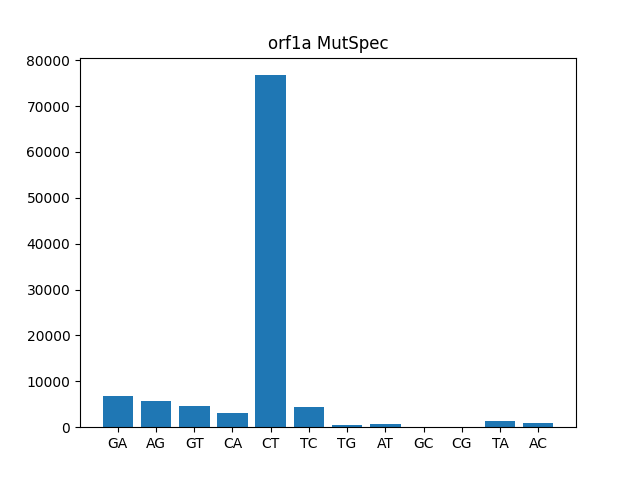
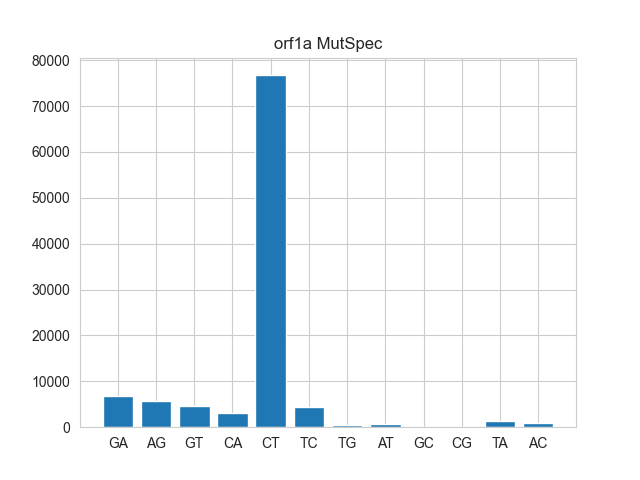
Refactoring

diff --git a/Sars_Cov_2/cod/sars_cov_2_mut.py b/Sars_Cov_2/cod/sars_cov_2_mut.py
@@ -2,95 +2,135 @@ import pandas as pd
 import matplotlib.pyplot as plt
 from Bio import SeqIO
 import numpy as np
+from pathlib import Path
+import seaborn as sns
+from tqdm import tqdm
 
-data = pd.read_excel('/home/bufnita/PycharmProjects/Sars_Cov_2/data/only_mutations.xls')
-ref = ('/home/bufnita/PycharmProjects/Sars_Cov_2/data/Covid_ref.fasta')
+sns.set_style('whitegrid')
+
+rootPath = Path('..')
+dataPath = rootPath / 'data'
+figuresPath = rootPath / 'figure'
+resultPath = rootPath /'data_obtained'
+
+data = pd.read_excel(dataPath / 'only_mutations.xls')
+ref = (dataPath / 'Covid_ref.fasta')
 
 def twelve_comp_mutspec(data):
     mutspec = {}
-    for index, row in data.iterrows():
-        if row['ref'] + row['snp'] in mutspec.keys():
-            mutspec[row['ref'] + row['snp']] += row['snp_count']
+    for index, row in tqdm(data.iterrows()):
+        subst = row['ref'] + row['snp']
+        if subst in mutspec.keys():
+            mutspec[subst] += row['snp_count']
         else:
-            mutspec[row['ref'] + row['snp']] = row['snp_count']
-    surface_mut_spec = pd.DataFrame([mutspec])
-    surface_mut_spec.to_csv('/home/bufnita/PycharmProjects/Sars_Cov_2/data_obtained/surface_mut_spec.csv')
-
-    fig = plt.figure()
-    plt.title('Surface MutSpec')
-    plt.bar(mutspec.keys(), mutspec.values())
-    fig.savefig('/home/bufnita/PycharmProjects/Sars_Cov_2/figure/surface_mut_spec.png')
+            mutspec[subst] = row['snp_count']
+    return mutspec
 
 def twelve_comp_mutspec_NS_S(data):
-    mutspec_S = {}
-    mutspec_NS = {}
-    for index, row in data.iterrows():
-        if row['NS_S'] == 'S':
-            if row['ref'] + row['snp'] in mutspec_S.keys():
-                mutspec_S[row['ref'] + row['snp']] += row['snp_count']
-            else:
-                mutspec_S[row['ref'] + row['snp']] = row['snp_count']
-        if row['NS_S'] == 'NS':
-            if row['ref'] + row['snp'] in mutspec_NS.keys():
-                mutspec_NS[row['ref'] + row['snp']] += row['snp_count']
-            else:
-                mutspec_NS[row['ref'] + row['snp']] = row['snp_count']
+    mutspec_S= twelve_comp_mutspec(data[data.NS_S ==  'S'])
+    mutspec_NS = twelve_comp_mutspec(data[data.NS_S ==  'NS'])
     NS_mut_spec = pd.DataFrame([mutspec_NS])
     S_mut_spec = pd.DataFrame([mutspec_S])
-    NS_mut_spec.to_csv('/home/bufnita/PycharmProjects/Sars_Cov_2/data_obtained/NS_mut_spec.csv')
-    S_mut_spec.to_csv('/home/bufnita/PycharmProjects/Sars_Cov_2/data_obtained/S_mut_spec.csv')
+    NS_mut_spec.to_csv(resultPath / 'NS_mut_spec.csv')
+    S_mut_spec.to_csv(resultPath / 'S_mut_spec.csv')
 
     fig_S = plt.figure()
     plt.title('Synonymous MutSpec')
     plt.bar(mutspec_S.keys(), mutspec_S.values())
-    fig_S.savefig('/home/bufnita/PycharmProjects/Sars_Cov_2/figure/S_mut_spec.png')
+    fig_S.savefig(figuresPath / 'S_mut_spec.png')
 
     fig_NS = plt.figure()
     plt.title('NonSynonymous MutSpec')
     plt.bar(mutspec_NS.keys(), mutspec_NS.values())
-    fig_NS.savefig('/home/bufnita/PycharmProjects/Sars_Cov_2/figure/NS_mut_spec.png')
+    fig_NS.savefig(figuresPath / 'NS_mut_spec.png')
+
+
+def _twelve_comp_mutspec_NS_S(data):
+    mutspec_S = {}
+    mutspec_NS = {}
+    for index, row in data.iterrows():
+        snp = row['ref'] + row['snp']
+        if row['NS_S'] == 'S':
+            if snp in mutspec_S.keys():
+                mutspec_S[snp] += row['snp_count']
+            else:
+                mutspec_S[snp] = row['snp_count']
+        if row['NS_S'] == 'NS':
+            if snp in mutspec_NS.keys():
+                mutspec_NS[snp] += row['snp_count']
+            else:
+                mutspec_NS[snp] = row['snp_count']
+    NS_mut_spec = pd.DataFrame([mutspec_NS])
+    S_mut_spec = pd.DataFrame([mutspec_S])
+    NS_mut_spec.to_csv(resultPath / 'NS_mut_spec.csv')
+    S_mut_spec.to_csv(resultPath / 'S_mut_spec.csv')
+
+    fig_S = plt.figure()
+    plt.title('Synonymous MutSpec')
+    plt.bar(mutspec_S.keys(), mutspec_S.values())
+    fig_S.savefig(figuresPath/ 'S_mut_spec.png')
+
+    fig_NS = plt.figure()
+    plt.title('NonSynonymous MutSpec')
+    plt.bar(mutspec_NS.keys(), mutspec_NS.values())
+    fig_NS.savefig(figuresPath/ 'NS_mut_spec.png')
 
 def mutspec_per_gen(data, gen):
     mutspec = {}
     new_data = data.loc[data['ORF'] == gen]
-    for index, row in new_data.iterrows():
-        if row['ref'] + row['snp'] in mutspec.keys():
-            mutspec[row['ref'] + row['snp']] += row['snp_count']
-        else:
-            mutspec[row['ref'] + row['snp']] = row['snp_count']
+    mutspec = twelve_comp_mutspec(new_data)
+    # for index, row in new_data.iterrows():
+    #     snp = row['ref'] + row['snp']
+    #     if snp in mutspec.keys():
+    #         mutspec[snp] += row['snp_count']
+    #     else:
+    #         mutspec[snp] = row['snp_count']
     gen_mut_spec = pd.DataFrame([mutspec])
-    gen_mut_spec.to_csv('/home/bufnita/PycharmProjects/Sars_Cov_2/data_obtained/gen_{}_mut_spec.csv'.format(gen))
+    gen_mut_spec.to_csv(resultPath / 'gen_{}_mut_spec.csv'.format(gen))
 
     fig = plt.figure()
     plt.title('{} MutSpec'.format(gen))
     plt.bar(mutspec.keys(), mutspec.values())
-    fig.savefig('/home/bufnita/PycharmProjects/Sars_Cov_2/figure/gen_{}_mut_spec.png'.format(gen))
+    fig.savefig(figuresPath / 'gen_{}_mut_spec.png'.format(gen))
 
 def mutspec_192(data, ref):
     mutspec = {}
     second_nucl_data = data.loc[data['pos_in_codon'] == 2]
     for index, row in second_nucl_data.iterrows():
-        if ref[int(row['bp'])-2 : int(row['bp'])+1] + ':' + ref[int(row['bp'])-2] + row['snp'] + ref[int(row['bp'])] in mutspec.keys():
-            mutspec[ref[int(row['bp'])-2 : int(row['bp'])+1] + ':' + ref[int(row['bp'])-2] + row['snp'] + ref[int(row['bp'])]] += row['snp_count']
+        codon = ref[int(row['bp'])-2 : int(row['bp'])+1]
+        snp_codon = ref[int(row['bp'])-2] + row['snp'] + ref[int(row['bp'])]
+        k = codon + ':' + snp_codon
+        if k in mutspec.keys():
+            mutspec[k] += row['snp_count']
         else:
-            mutspec[ref[int(row['bp'])-2 : int(row['bp'])+1] + ':' + ref[int(row['bp'])-2] + row['snp'] + ref[int(row['bp'])]] = row['snp_count']
+            mutspec[k] = row['snp_count']
     gen_mut_spec = pd.DataFrame([mutspec])
-    gen_mut_spec.to_csv('/home/bufnita/PycharmProjects/Sars_Cov_2/data_obtained/mut_spec_192.csv')
+    gen_mut_spec.to_csv(resultPath / 'mut_spec_192.csv')
 
-    fig = plt.figure()
-    ax = fig.add_axes([0, 0, 1, 1])
+    fig, ax = plt.subplots(figsize=(10,30))
     ax.set_title('MutSpec192')
-    ax.bar(mutspec.keys(), mutspec.values(), width = 0.4)
-    fig.set_figwidth(12)
-    fig.set_figheight(6)
-    fig.savefig('/home/bufnita/PycharmProjects/Sars_Cov_2/figure/mutspec192.png')
+    # plt.bar(mutspec.keys(), mutspec.values(), width = 0.4)
+    df= pd.DataFrame([(k,mutspec[k]) for k  in mutspec])
+    ax.barh(df[0], df[1])
+    plt.yticks((np.arange((len(df)))), df[0])
+    ax.axes.set_ylim(-0.5,len(df)+0.5)
+
+    plt.savefig(figuresPath / 'mutspec192.png')
 
 
-
-twelve_comp_mutspec(data)
-twelve_comp_mutspec_NS_S(data)
-for gen in data['ORF'].unique():
-     mutspec_per_gen(data, gen)
+#
+# mutspec = twelve_comp_mutspec(data)
+# surface_mut_spec = pd.DataFrame([mutspec])
+# surface_mut_spec.to_csv(resultPath / 'surface_mut_spec.csv')
+#
+# fig = plt.figure()
+# plt.title('Surface MutSpec')
+# plt.bar(mutspec.keys(), mutspec.values())
+# fig.savefig(figuresPath / 'surface_mut_spec.png')
+#
+# twelve_comp_mutspec_NS_S(data)
+# for gen in data['ORF'].unique():
+#      mutspec_per_gen(data, gen)
 nucl_ref = ''
 with open (ref, 'r') as ref:
     a = ref.readlines()
